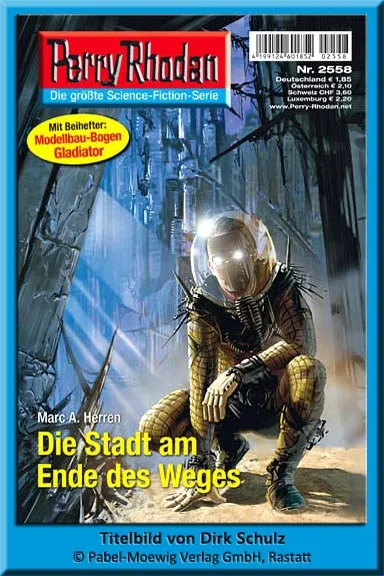
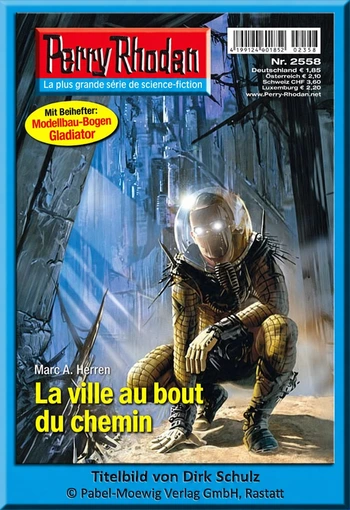
fix: translate covers 2553-2562

diff --git a/src/content/chapitres/de-2562.md b/src/content/chapitres/de-2562.md
@@ -4,11 +4,11 @@ cycleNumber: 36
 chapterNumber: 2562
 type: translation
 originalTitle: "Die Tryonische Allianz"
-cover: "/images/covers/de-2562.webp"
+cover: "/images/covers/de-2562.webp?v=20261116-2562-fr"
 auteur: "Susan Schwartz"
 parution: "2010-10-08"
 statut: traduit
-titleFr: "Perry 2562 - L’Alliance tryonienne"
+titleFr: "Perry 2562 - L’alliance tryonienne"
 ---
 
 À la recherche de l’héritage ancestral –

diff --git a/src/content/chapitres/de-2553.md b/src/content/chapitres/de-2553.md
@@ -4,11 +4,11 @@ cycleNumber: 36
 chapterNumber: 2553
 type: translation
 originalTitle: "Die Stadt in der Mitte der Welt"
-cover: "/images/covers/de-2553.webp"
+cover: "/images/covers/de-2553.webp?v=20261116-2553-fr"
 auteur: "Frank Borsch"
 parution: "2010-08-06"
 statut: traduit
-titleFr: "Perry 2553 – *La Cité au Cœur du Monde*"
+titleFr: "Perry 2553 - La cité au cœur du monde"
 ---
 
 La Cité au Cœur du Monde

diff --git a/src/content/chapitres/de-2561.md b/src/content/chapitres/de-2561.md
@@ -4,11 +4,11 @@ cycleNumber: 36
 chapterNumber: 2561
 type: translation
 originalTitle: "Insel der goldenen Funken"
-cover: "/images/covers/de-2561.webp"
+cover: "/images/covers/de-2561.webp?v=20261116-2561-fr"
 auteur: "Arndt Ellmer"
 parution: "2010-10-01"
 statut: traduit
-titleFr: "*L’Île des étincelles d’or*"
+titleFr: "Perry 2561 - L’île des étincelles d’or"
 ---
 
 *L’Île des étincelles d’or*

diff --git a/src/content/chapitres/de-2554.md b/src/content/chapitres/de-2554.md
@@ -4,11 +4,11 @@ cycleNumber: 36
 chapterNumber: 2554
 type: translation
 originalTitle: "Die lodernden Himmel"
-cover: "/images/covers/de-2554.webp"
+cover: "/images/covers/de-2554.webp?v=20261116-2554-fr"
 auteur: "Leo Lukas"
 parution: "2010-08-13"
 statut: traduit
-titleFr: "Perry 2554 – Les Cieux Embrasés"
+titleFr: "Perry 2554 - Les cieux embrasés"
 ---
 
 Vorgeschichte:

diff --git a/src/content/chapitres/de-2555.md b/src/content/chapitres/de-2555.md
@@ -4,11 +4,11 @@ cycleNumber: 36
 chapterNumber: 2555
 type: translation
 originalTitle: "Kante des Untergangs"
-cover: "/images/covers/de-2555.webp"
+cover: "/images/covers/de-2555.webp?v=20261116-2555-fr"
 auteur: "Leo Lukas"
 parution: "2010-08-20"
 statut: traduit
-titleFr: "Perry 2555 - Au bord"
+titleFr: "Perry 2555 - Au bord de la chute"
 ---
 
 Au bord de la perdition

diff --git a/src/content/chapitres/de-2557.md b/src/content/chapitres/de-2557.md
@@ -5,10 +5,11 @@ cycleNumber: 36
 chapterNumber: 2557
 type: "translation"
 originalTitle: "Der Mentalpilot"
-cover: "/images/covers/de-2557.webp"
+cover: "/images/covers/de-2557.webp?v=20261116-2557-fr"
 auteur: "Arndt Ellmer"
 parution: "2010-09-03"
 statut: traduit
+titleFr: "Perry 2557 - Le pilote mental"
 ---
 
 Le pilote mental

diff --git a/src/content/chapitres/de-2558.md b/src/content/chapitres/de-2558.md
@@ -4,7 +4,7 @@ cycleNumber: 36
 chapterNumber: 2558
 type: translation
 originalTitle: "Die Stadt am Ende des Weges"
-cover: "/images/covers/de-2558.webp"
+cover: "/images/covers/de-2558.webp?v=20261116-2558-fr"
 auteur: "Marc A. Herren"
 parution: "2010-09-10"
 statut: traduit

diff --git a/src/content/chapitres/de-2556.md b/src/content/chapitres/de-2556.md
@@ -4,7 +4,7 @@ cycleNumber: 36
 chapterNumber: 2556
 type: translation
 originalTitle: "Im Innern des Wunders"
-cover: "/images/covers/de-2556.webp"
+cover: "/images/covers/de-2556.webp?v=20261116-2556-fr"
 auteur: "Christian Montillon"
 parution: "2010-08-27"
 statut: traduit

diff --git a/src/content/chapitres/de-2559.md b/src/content/chapitres/de-2559.md
@@ -4,7 +4,7 @@ cycleNumber: 36
 chapterNumber: 2559
 type: translation
 originalTitle: "Splitter des Bösen"
-cover: "/images/covers/de-2559.webp"
+cover: "/images/covers/de-2559.webp?v=20261116-2559-fr"
 auteur: "Marc A. Herren"
 parution: "2010-09-17"
 statut: traduit

diff --git a/src/content/chapitres/de-2560.md b/src/content/chapitres/de-2560.md
@@ -4,7 +4,7 @@ cycleNumber: 36
 chapterNumber: 2560
 type: translation
 originalTitle: "Das Raunen des Vamu"
-cover: "/images/covers/de-2560.webp"
+cover: "/images/covers/de-2560.webp?v=20261116-2560-fr"
 auteur: "Arndt Ellmer"
 parution: "2010-09-24"
 statut: traduit
